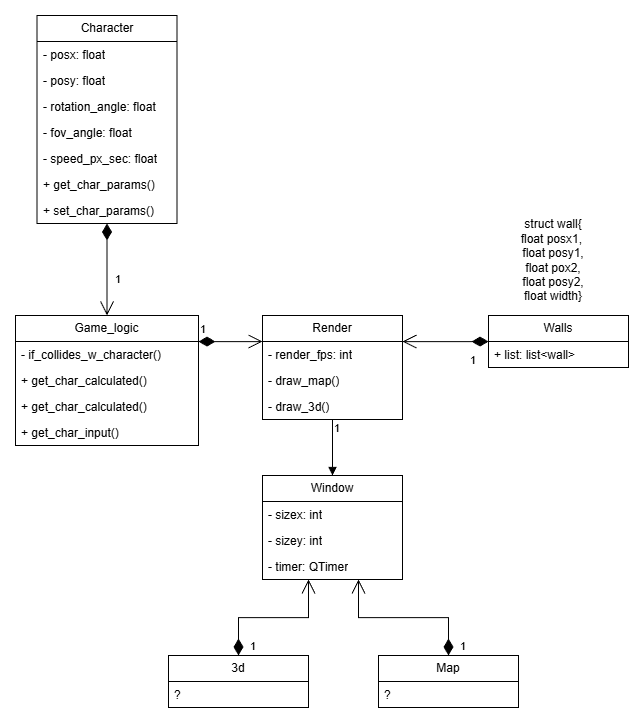
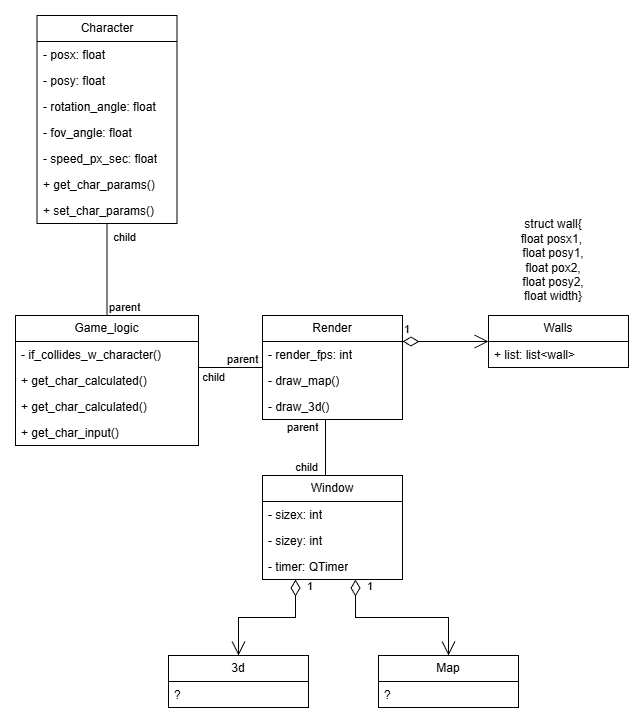
Commiting changes before changing to objects of Qt

diff --git a/main.cpp b/main.cpp
@@ -1,4 +1,5 @@
 #include <QApplication>
+#include <iostream>
 #include <QWidget>
 #include <QPainter>
 #include <QPaintEvent>
@@ -29,8 +30,20 @@ void set_char_params(character_t buff){
 
 
 class Game_logic {
+
     private:
-    
+    bool if_collides_w_character(character_t character_buff){
+        for(int i = 0; i < Walls.size(); i++){
+            if(character_buff.xpos <= std::max(Walls[i].x1, Walls[i].x2) &&
+               character_buff.xpos >= std::min(Walls[i].x1, Walls[i].x2) &&
+               character_buff.ypos <= std::max(Walls[i].y1, Walls[i].y2) &&
+               character_buff.ypos >= std::min(Walls[i].y1, Walls[i].y2) &&
+                < width){
+                return true;
+            }
+        }
+        return false;
+    }
     
 };
 